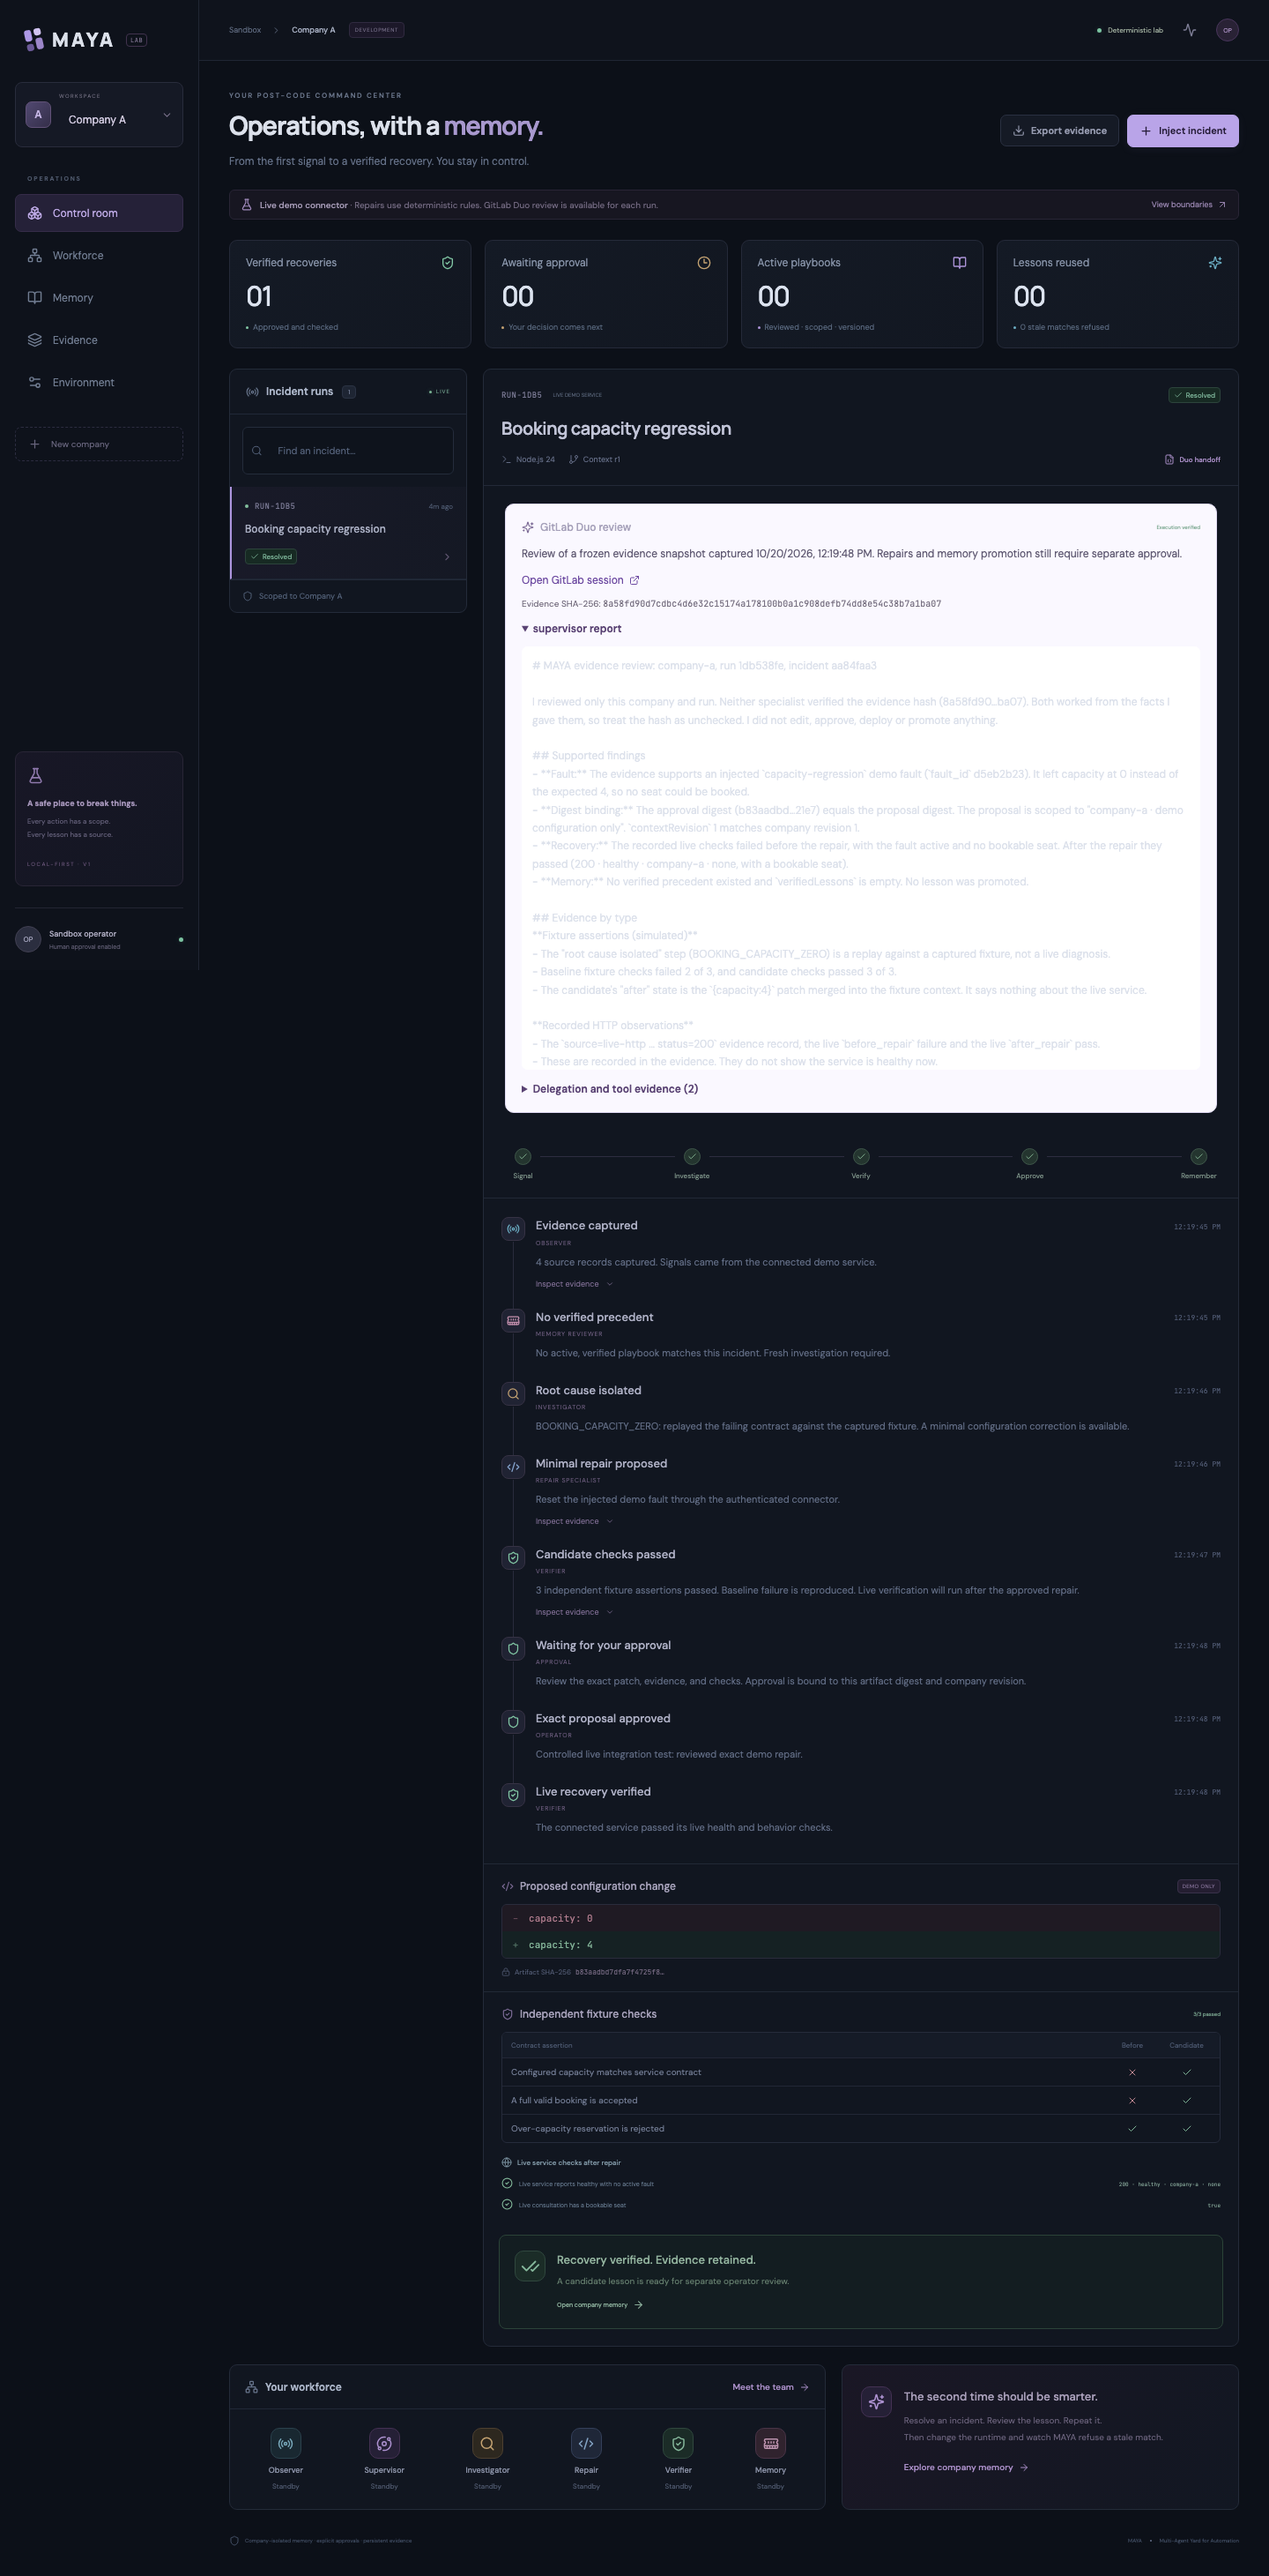
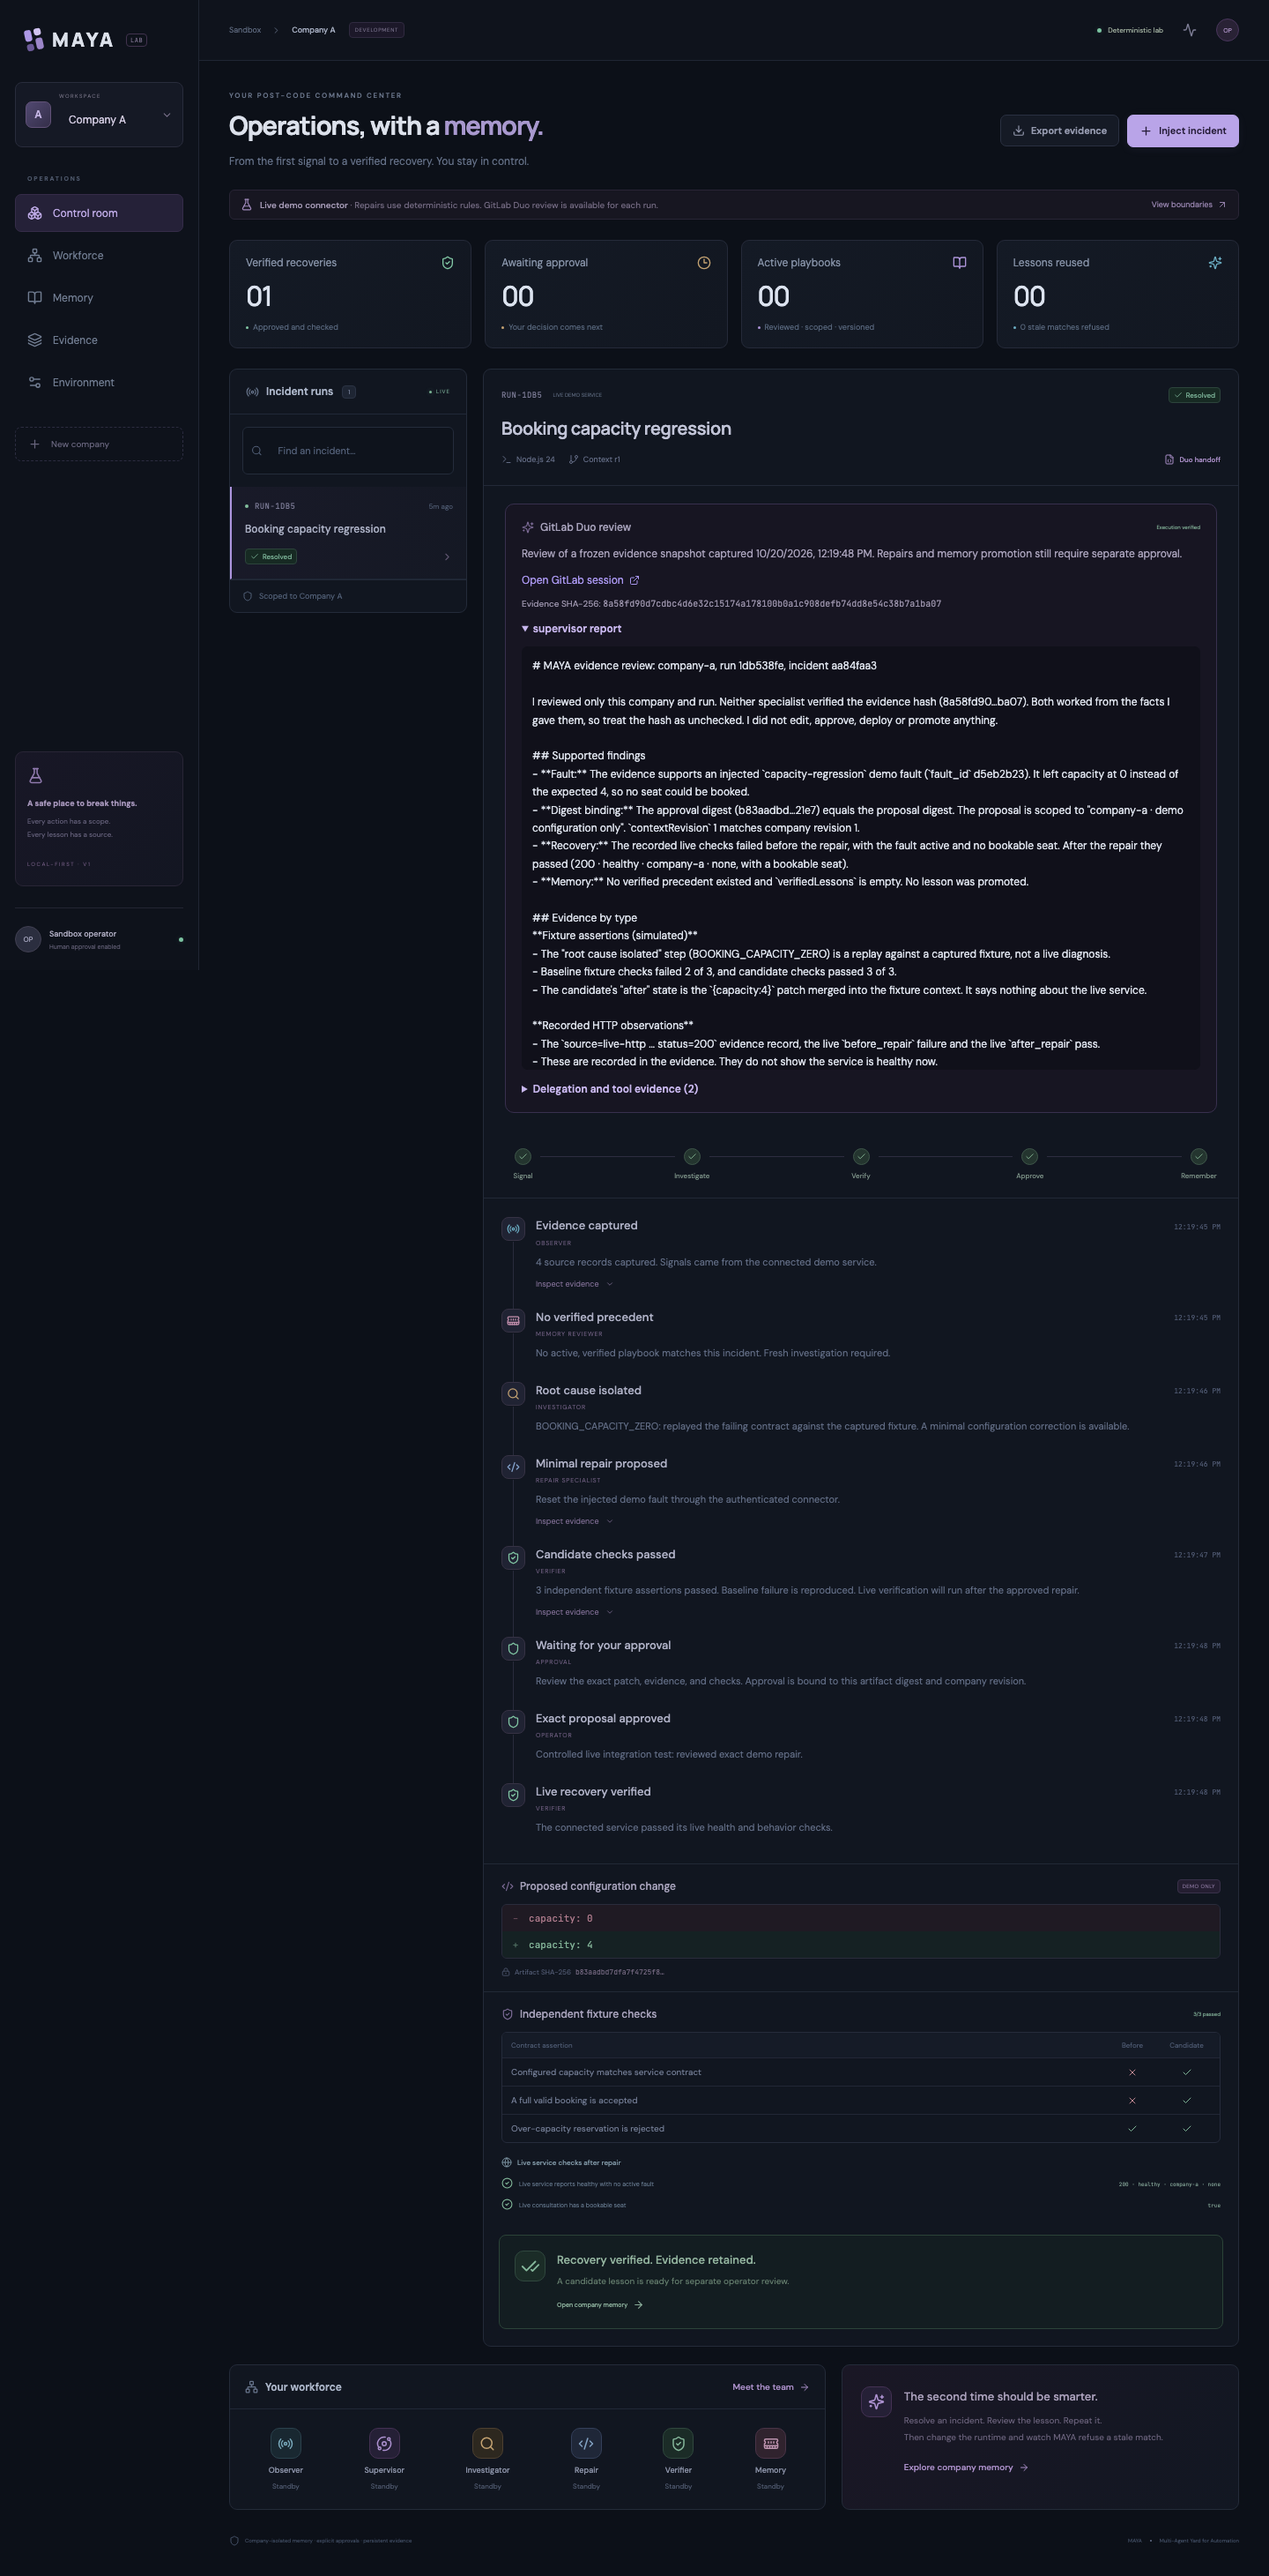
Match Duo report colors to the console dark theme

Changed region(s): [[0.375, 0.1869, 0.9688, 0.4362]]

diff --git a/src/web/styles.css b/src/web/styles.css
@@ -3052,19 +3052,19 @@ input::placeholder {
 .duo-review-panel {
   margin: 20px 24px;
   padding: 18px;
-  border: 1px solid #dfd9f2;
-  background: #faf8ff;
+  border: 1px solid #38304e;
+  background: #171522;
   border-radius: 10px;
 }
 .duo-review-panel p {
-  color: #605a72;
+  color: #a9a2bb;
   font-size: 12px;
   line-height: 1.7;
   margin: 10px 0;
 }
 .duo-review-panel small {
   display: block;
-  color: #777080;
+  color: #9890a8;
   font-size: 10px;
   overflow-wrap: anywhere;
 }
@@ -3079,7 +3079,7 @@ input::placeholder {
   gap: 6px;
   align-items: center;
   font-size: 12px;
-  color: #6c49a1;
+  color: var(--violet);
 }
 .duo-review-panel details {
   margin-top: 14px;
@@ -3087,7 +3087,7 @@ input::placeholder {
 }
 .duo-review-panel summary {
   cursor: pointer;
-  color: #594273;
+  color: #c8b7ee;
   font-weight: 600;
 }
 .duo-review-panel pre {
@@ -3099,7 +3099,8 @@ input::placeholder {
   max-height: 480px;
   overflow: auto;
   padding: 12px;
-  background: #fff;
+  background: #10101a;
+  color: #dce1eb;
   border-radius: 7px;
 }
 .duo-consent {
@@ -3113,7 +3114,7 @@ input::placeholder {
   width: auto;
 }
 .duo-review-panel .duo-error {
-  color: #a73737;
+  color: #f0a0a0;
 }
 @media (max-width: 600px) {
   .duo-review-panel {
